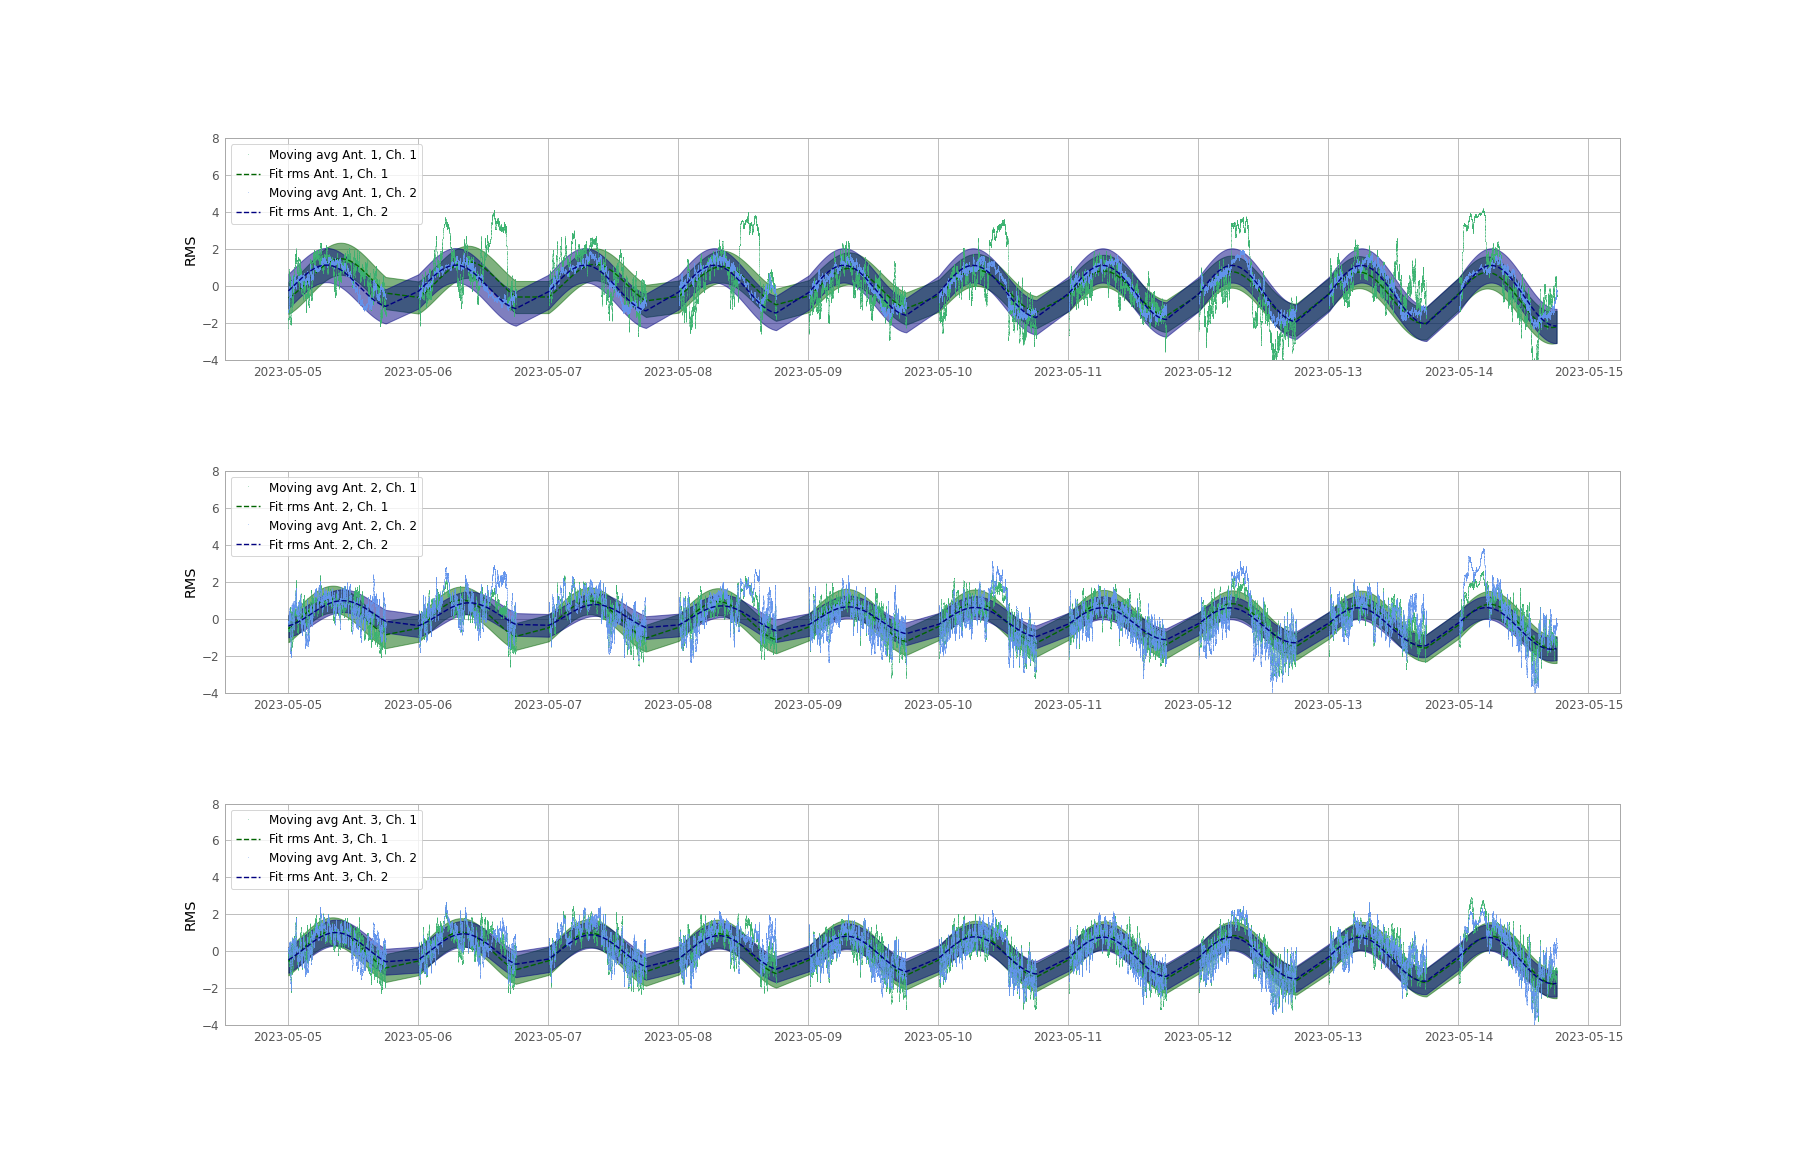
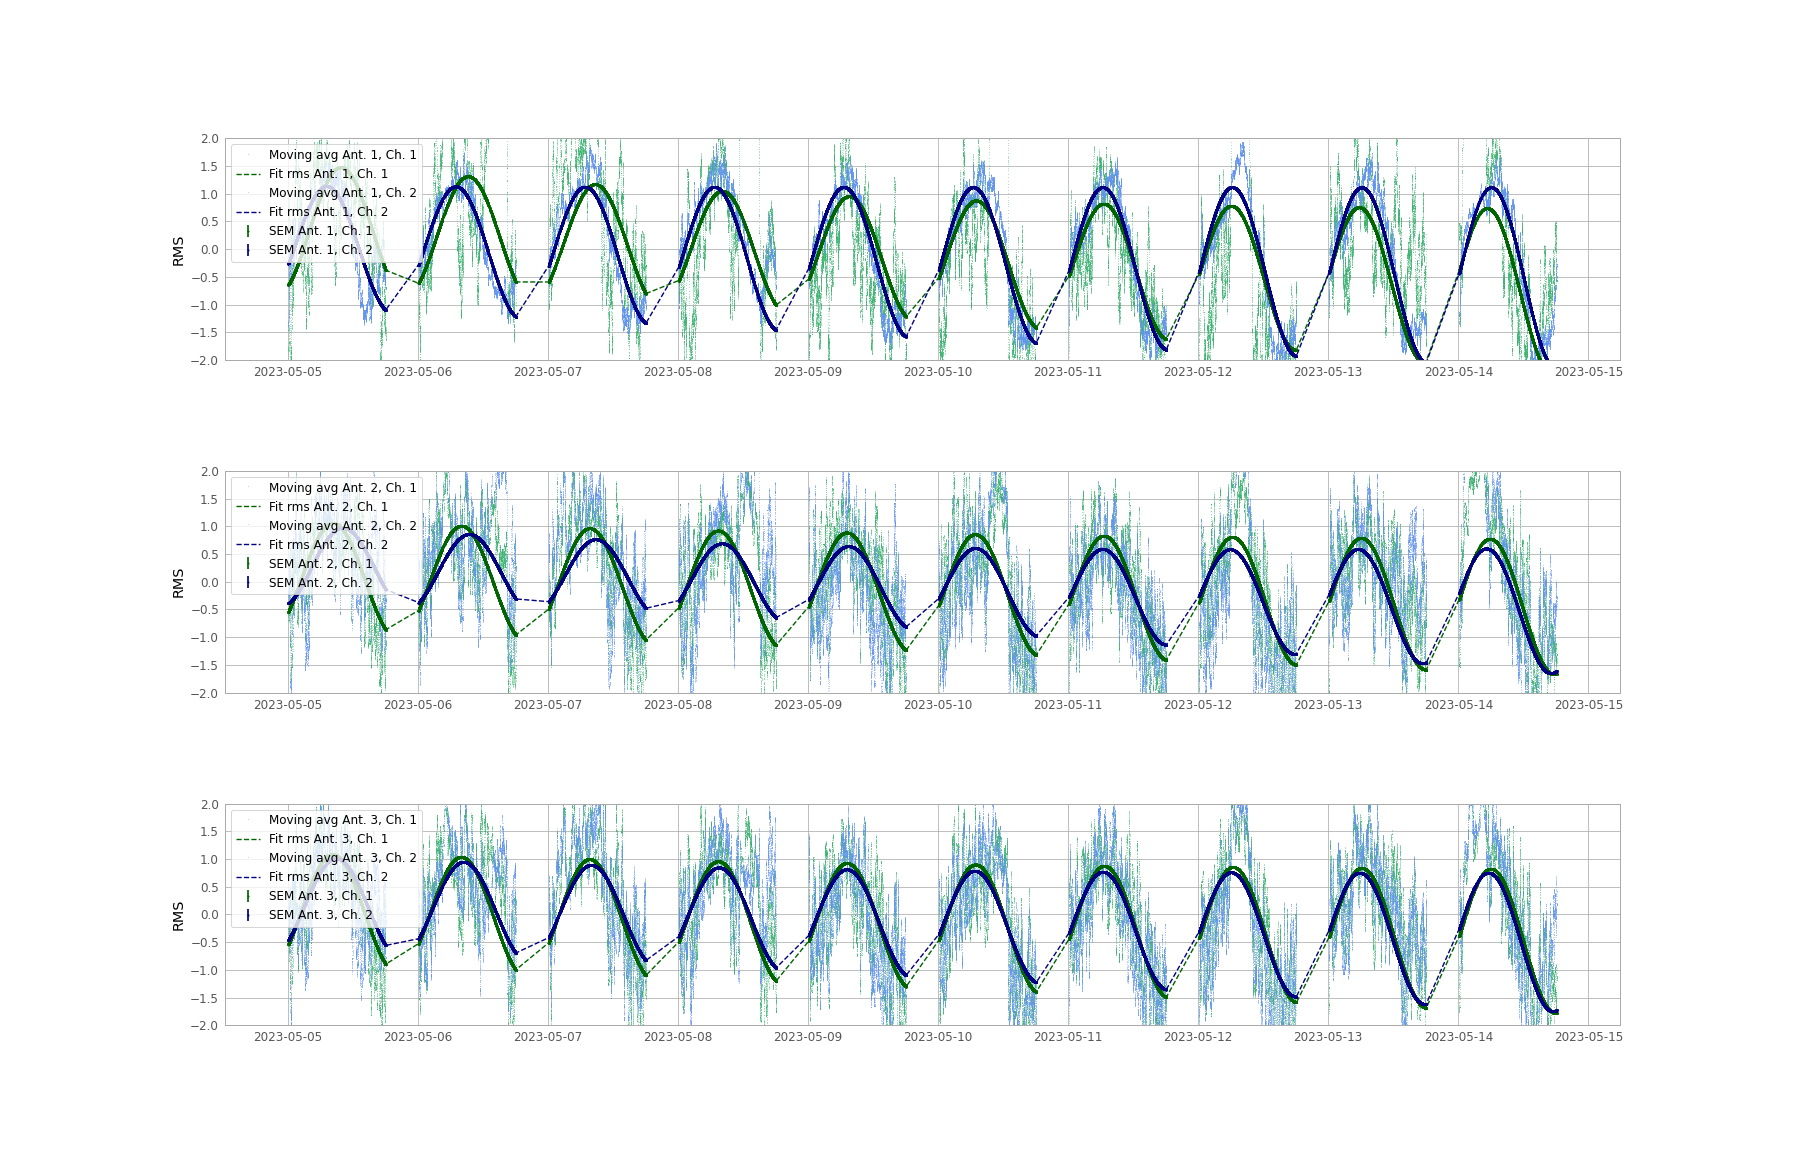
update python scripts

diff --git a/fit/frequency.py b/fit/frequency.py
@@ -1,0 +1,152 @@
+from scipy.optimize import curve_fit
+from scipy.stats import binned_statistic
+from scipy.signal import savgol_filter
+from datetime import datetime
+import pandas as pd
+import numpy as np
+import logging
+
+from astropy.visualization import astropy_mpl_style, quantity_support
+import matplotlib.gridspec as gridspec
+import matplotlib.pyplot as plt
+import matplotlib
+matplotlib.rcParams['text.usetex'] = False
+plt.rcParams['figure.dpi'] = 2000
+plt.style.use(astropy_mpl_style)
+quantity_support()
+
+
+class fit_data:
+
+    def __init__(self, filename, stat):
+        self.time, self.rms = [], []
+        self.ant, self.pol = 3, 2  # 3 antennas and 2 polarisations
+        self.window = 150
+        self.stat = stat
+        self.dataframe = pd.DataFrame()  # create dataframe to make easier column operations
+        self.read_npz(filename)  # read compressed numpy files
+        logging.basicConfig(filename='fit.log', level=logging.INFO, format='%(asctime)s - %(message)s', datefmt='%Y-%m-%d %H:%M:%S')
+        self.logger = logging.getLogger('fit')
+        print(f'-> Reading {filename.split("_")[2][:-4]} MHz')
+
+    def read_npz(self, filename):
+        data = np.load(filename, allow_pickle=True)  # allow pickling -> use of packed objects
+        self.time = data['time']
+        self.rms = np.array([data['rms10'], data['rms11'], data['rms20'], data['rms21'], data['rms30'], data['rms31']])
+
+    def process_data(self):
+        self.to_dataframe()
+        self.clean_data()
+        self.get_moving_avg()
+        print('\n------ Fitting data ------')
+
+    def to_dataframe(self):
+        self.dataframe['time'] = self.time
+        for ant_i in range(self.ant):
+            for chan_i in range(self.pol):
+                id_i = f'rms{ant_i+1}{chan_i}'
+                self.dataframe[id_i] = self.rms[2 * ant_i + chan_i]
+
+    def clean_data(self, n=17):  # n to calc a threshold by adding n to the minimum rms.
+        for ant_i in range(self.ant):
+            for chan_i in range(self.pol):
+                id_i = f'rms{ant_i+1}{chan_i}'
+                self.dataframe = self.dataframe[self.dataframe[id_i] <= np.min(self.dataframe[id_i]) + n]  # remove outliers
+
+    def get_moving_avg(self):  # calc moving avg using rolling
+        for ant_i in range(self.ant):
+            for chan_i in range(self.pol):
+                id_i = f'{ant_i+1}{chan_i}'
+                self.dataframe['average' + id_i] = self.dataframe['rms' + id_i].rolling(self.window).mean()
+
+    def set_window_time(self, init_time, final_time):
+        self.init_time, self.final_time = init_time, final_time
+        self.dataframe = self.dataframe.sort_values('time', axis=0, ascending=True)
+        self.dataframe = self.dataframe.loc[self.dataframe['time'] > init_time]
+        self.dataframe = self.dataframe.loc[self.dataframe['time'] < final_time]
+
+    def bin_data(self, time, rms, bins=5000):
+        std, _, _ = binned_statistic(time, rms, statistic='std', bins=bins)
+        n, _, _ = binned_statistic(time, rms, statistic='count', bins=bins)
+        sem = std / np.sqrt(n)
+        bins, bin_edges, _ = binned_statistic(time, rms, statistic=self.stat, bins=bins)
+        bin_centers = (bin_edges[:-1] + bin_edges[1:]) / 2
+        return bins, bin_centers, sem
+
+    def chi_squared(self, y_obs, y_fit, sigma):
+        return np.sum(((y_fit - y_obs) / sigma) ** 2) / (len(y_obs) - 5)
+
+    def fit_sin(self, time, rms):
+        t = np.array([val.timestamp() for val in time])  # converts datetime to a unix timestamp
+
+        a, mean = 0, 0
+        phase, phase2 = 0, 0
+        amp, amp2 = np.std(rms) / np.sqrt(2), 0.001
+        sidereal_freq = 1 / (23 * 60 * 60 + 56 * 60 + 4.092)  # sidereal freq
+        solar_freq = 1 / (24 * 60 * 60)  # solar freq
+
+        def fit_function(t, amp, phase, amp2, phase2, a, mean):
+            return amp * np.sin(2 * np.pi * sidereal_freq * t + phase) + amp2 * np.sin(2 * np.pi * solar_freq * t + phase2) + a * t + mean
+
+        initial_guess = [amp, phase, amp2, phase2, a, mean]
+        param_bounds = ([0, -np.inf, 0, -np.inf, -np.inf, -np.inf], [np.inf, np.inf, np.inf, np.inf, np.inf, np.inf])
+        bins, bin_centers, sem = self.bin_data(t, rms)  # bin before fitting
+
+        valid_bins = ~np.isnan(bins) & ~np.isnan(bin_centers)  # filter out bins with NaN or Inf values
+        fit_bin_centers, fit_bins = bin_centers[valid_bins], bins[valid_bins]
+
+        popt, pcov = curve_fit(fit_function, fit_bin_centers, fit_bins, p0=initial_guess, bounds=param_bounds)
+        fit = fit_function(bin_centers, *popt)
+        amp, phase, amp2, phase2, a, mean = popt
+        print(a)
+
+        return fit, bin_centers, sem
+
+    def plot_fit(self, ax, time, data_fit, **kwargs):
+        ax.plot(time, data_fit, **kwargs)
+
+    def plot_pol(self, ax, freq, chan_i, color_map):
+        for ant_i in range(self.ant):
+            id_i = f'{ant_i+1}{chan_i}'
+            print(f'\n- Ant. {ant_i+1}, Pol. {chan_i+1}')
+
+            average_rms = self.dataframe['average' + id_i] - np.mean(self.dataframe['average' + id_i])  # center data
+            time = self.dataframe['time']
+
+            start_time, end_time = self.init_time, self.final_time
+            mask = (time >= start_time) & (time <= end_time)
+            time, average_rms = time[mask], average_rms[mask]
+
+            data_fit, bin_centers, sem = self.fit_sin(time, average_rms)
+
+            bin_centers_dates = [datetime.fromtimestamp(tc) for tc in bin_centers]
+            self.plot_fit(ax, bin_centers_dates, data_fit, lw=1.4, ls='--', label=f'Ant. {ant_i+1}, Ch. {chan_i+1}', color=color_map[ant_i])
+            #ax.plot_date(time, average_rms, fmt=',', alpha=0.2, color=color_map[ant_i], label=f'Moving avg Ant. {ant_i+1}, Ch. {chan_i+1}')
+            #ax.errorbar(bin_centers_dates, data_fit, yerr=sem, fmt='o', ecolor=color_map[ant_i], markeredgecolor=color_map[ant_i], markerfacecolor=color_map[ant_i])
+
+    def plot_rms(self, fig, freq, color_map):
+        spec = gridspec.GridSpec(ncols=1, nrows=2)
+        freq = freq.split('_')[2][:-4]
+        for chan_i in range(self.pol):
+            ax = fig.add_subplot(spec[chan_i])
+            self.plot_pol(ax, freq, chan_i, color_map)
+            ax.set_ylabel('RMS')
+            ax.set_ylim(-2,2)
+            plt.legend(loc='upper left')
+            plt.setp(ax.get_xticklabels(), visible=True)
+
+        plt.suptitle(f'Using {self.stat} for Freq {freq}', fontsize=18, y=0.95)
+        plt.savefig(f'../plots/freq_{self.stat}_binned.png')
+        plt.close()
+
+filenames = ['GalOscillation_Deconvolved_140-190.npz']
+startTime = '2023-04-05'
+endTime = '2023-04-30'
+
+fig = plt.figure(figsize=[25, 16])
+color_map = ['red', 'blue', 'green']
+for file in filenames:
+    fit = fit_data(file, 'mean')
+    fit.process_data()
+    fit.set_window_time(startTime, endTime)
+    fit.plot_rms(fig, file, color_map)

diff --git a/fit/fit_binned.py b/fit/fit_binned.py
@@ -1,10 +1,12 @@
 
 from scipy.optimize import curve_fit
 from scipy.stats import binned_statistic
+from scipy.signal import savgol_filter
 from datetime import datetime
 import pandas as pd
 import numpy as np
 import logging
+import argparse
 
 from astropy.visualization import astropy_mpl_style, quantity_support
 import matplotlib.gridspec as gridspec
@@ -25,7 +27,7 @@ class fit_data:
         self.stat = stat
         self.dataframe = pd.DataFrame() #* create dataframe to make easier column operations
         self.read_npz(filename) #* read compressed numpy files
-        logging.basicConfig( filename='fit.log', level=logging.INFO, format='%(asctime)s - %(message)s', datefmt='%Y-%m-%d %H:%M:%S')
+        logging.basicConfig(filename='fit.log', level=logging.INFO, format='%(asctime)s - %(message)s', datefmt='%Y-%m-%d %H:%M:%S')
         self.logger = logging.getLogger('fit')
         print(f'-> Reading {filename.split("_")[2][:-4]} MHz')
 
@@ -70,13 +72,8 @@ class fit_data:
         std, _, _ = binned_statistic(time, rms, statistic='std', bins=bins)
         n, _, _ = binned_statistic(time, rms, statistic='count', bins=bins)
         sem = std/np.sqrt(n)
-
         bins, bin_edges, _ = binned_statistic(time, rms, statistic=self.stat, bins=bins)
         bin_centers = (bin_edges[:-1] + bin_edges[1:])/2
-
-        valid_bins = ~np.isnan(bins) & ~np.isnan(bin_centers) #? filter out bins with NaN or Inf values
-        bin_centers, bins, sem = bin_centers[valid_bins], bins[valid_bins], sem[valid_bins]
-
         return bins, bin_centers, sem
 
     def chi_squared(self, y_obs, y_fit, sigma):
@@ -98,12 +95,17 @@ class fit_data:
         initial_guess = [amp, phase, amp2, phase2, a, mean]
         param_bounds = ([0, -np.inf, 0, -np.inf, -np.inf, -np.inf],[np.inf, np.inf, np.inf, np.inf, np.inf, np.inf])
         bins, bin_centers, sem = self.bin_data(t, rms) #* bin before fitting
-        popt, pcov = curve_fit(fit_function, bin_centers, bins, p0=initial_guess, bounds=param_bounds)
 
+        valid_bins = ~np.isnan(bins) & ~np.isnan(bin_centers) #? filter out bins with NaN or Inf values
+        fit_bin_centers, fit_bins = bin_centers[valid_bins], bins[valid_bins]
+
+        popt, pcov = curve_fit(fit_function, fit_bin_centers, fit_bins, p0=initial_guess, bounds=param_bounds)
         perr = np.sqrt(np.diag(pcov)) #* std of the fit params
         amp, phase, amp2, phase2, a, mean = popt #* fit values
         amp_std, phase_std, amp2_std, phase2_std, a_std, mean_std = perr #* std of fit values
-        fit = fit_function(t, *popt)
+        fit = fit_function(bin_centers, *popt)
+        self.logger.info({'stat':self.stat, 'A1':amp, 'phi1':phase, 'A2':amp2, 'phi2':phase2, 'a':a, 'mean':mean})
+        self.logger.info({'stat':self.stat, 'A1_std':amp_std, 'phi1_std':phase_std, 'A2_std':amp2_std, 'phi2_std':phase2_std, 'a_std':a_std, 'mean_std':mean_std})
 
         print(f'Chi-squared: {self.chi_squared(rms, fit_function(t, *popt), np.std(fit)):.3f}')
         print(f'SEM: {np.std(fit)/len(fit):.3f}')
@@ -115,7 +117,8 @@ class fit_data:
         print(f'phi_2: {phase2:.3f} ± {phase2_std:.3f}')
         print(f'a: {a:.3f} ± {a_std:.3f}')
         print(f'mean: {mean:.3f} ± {mean_std:.3f}')
-        return fit, bins, bin_centers, sem #* final fit
+
+        return fit, bin_centers, sem #* final fit
 
 
     def plot_fit(self, ax, time, data_fit, **kwargs):
@@ -133,17 +136,18 @@ class fit_data:
         start_time, end_time = self.init_time, self.final_time
         mask = (time >= start_time) & (time <= end_time)
         time, rms_cent, average_rms = time[mask], rms_cent[mask], average_rms[mask]
-        data_fit, bins, bin_centers, sem = self.fit_sin(time, average_rms)
 
-        #ax.plot_date(time, rms_cent, fmt=',', c=color[chan_i], alpha=0.5, label=f'Ant. {ant_i+1}, Pol. {chan_i}')
+        data_fit, bin_centers, sem = self.fit_sin(time, average_rms)
+
+        ax.plot_date(time, rms_cent, fmt=',', c=color[chan_i], alpha=0.5, label=f'Ant. {ant_i+1}, Pol. {chan_i}')
         ax.plot_date(time, average_rms, fmt=',', c=color2[chan_i], label=f'Moving avg Ant. {ant_i+1}, Ch. {chan_i+1}')
 
-        std = np.std(data_fit)
-        self.plot_fit(ax, time, data_fit, lw=1.4, fmt='--', label=f'Fit rms Ant. {ant_i+1}, Ch. {chan_i+1}', c=color3[chan_i])
-        ax.fill_between(time, data_fit-std, data_fit+std, alpha=0.5, color=color3[chan_i])
+        bin_centers_dates = [datetime.fromtimestamp(tc) for tc in bin_centers]
+        self.plot_fit(ax, bin_centers_dates, data_fit, lw=1.4, fmt='--', label=f'Fit rms Ant. {ant_i+1}, Ch. {chan_i+1}', c=color3[chan_i])
+        ax.errorbar(bin_centers_dates, data_fit, yerr=sem, fmt ='o', label=f'SEM Ant. {ant_i+1}, Ch. {chan_i+1}', ecolor=color3[chan_i], markeredgecolor=color3[chan_i], markerfacecolor=color3[chan_i])
 
-        mse = np.mean((average_rms-data_fit)**2)
-        print(f'mse: {mse:.3f}')
+        #mse = np.mean((average_rms-data_fit)**2)
+        #print(f'mse: {mse:.3f}')
 
 
     def plot_rms(self):
@@ -155,25 +159,26 @@ class fit_data:
             ax = fig.add_subplot(spec[ant_i])
             for chan_i in range(self.pol):
                 self.plot_pol(ax, ant_i, chan_i)
-            #self.plot_pol(ax, ant_i, 0)
+
             ax.set_ylabel('RMS')
             ax.set_ylim(-4,8)
-            #ax.set_xlim(datetime(2023, 5, 5), datetime(2023, 5, 6))
             plt.legend(loc='upper left')
             plt.setp(ax.get_xticklabels(), visible=True)
             plt.suptitle(f'Using {self.stat}', fontsize=18, y=0.95)
 
-        plt.savefig(f'fit_{self.stat}_binned.png')
+        plt.savefig(f'../plots/fit_{self.stat}_binned.png')
         plt.close()
 
 
-filename = 'GalOscillation_Deconvolved_140-190.npz'
-startTime = '2023-05-05'
-endTime = '2023-05-15'
-for stat in ['mean', 'median']:
-    fit = fit_data(filename, stat)
-    fit.process_data()
-    startTime = '2023-05-05'
-    endTime = '2023-05-15'
-    fit.set_window_time(startTime, endTime)
-    fit.plot_rms()
+
+parser = argparse.ArgumentParser()
+parser.add_argument('--file', type=str, help='.npz file name', required=False, default='GalOscillation_Deconvolved_140-190.npz')
+parser.add_argument('--stat', type=str, help='mean or median', required=False, default='mean')
+parser.add_argument('--init_time', type=str, help='initial time -> d/m/y', required=False, default='05/05/2023')
+parser.add_argument('--final_time', type=str, help='final time -> d/m/y', required=False, default='15/05/2023')
+args = parser.parse_args()
+
+fit = fit_data(args.file, args.stat)
+fit.process_data()
+fit.set_window_time(args.init_time, args.final_time)
+fit.plot_rms()

diff --git a/fit/fit_data.py b/fit/fit_data.py
@@ -2,6 +2,7 @@ from scipy.optimize import curve_fit
 from datetime import datetime
 import pandas as pd
 import numpy as np
+import argparse
 
 from astropy.visualization import astropy_mpl_style, quantity_support
 import matplotlib.gridspec as gridspec
@@ -118,8 +119,8 @@ class fit_data:
         data_fit = self.fit_sin(time, average_rms)
 
         self.plot_fit(ax, time, data_fit, lw=1.4, fmt='--', label=f'Fit rms Ant. {ant_i+1}, Ch. {chan_i+1}', c=color3[chan_i])
-        std = np.std(data_fit)
-        ax.fill_between(time, data_fit-std, data_fit+std, alpha=0.5, color=color3[chan_i])
+        sem = np.std(data_fit)/len(data_fit)
+        ax.errorbar(time, data_fit, yerr=sem, fmt ='o', markersize=1, label=f'SEM Ant. {ant_i+1}, Ch. {chan_i+1}', ecolor=color3[chan_i], markeredgecolor=color3[chan_i], markerfacecolor=color3[chan_i])
 
         mse = np.mean((average_rms - data_fit) ** 2)
         print(f'mse: {round(mse,3)}')
@@ -135,20 +136,21 @@ class fit_data:
             for chan_i in range(self.pol):
                 self.plot_pol(ax, ant_i, chan_i)
             ax.set_ylabel('RMS')
-            ax.set_ylim(-4,8)
+            ax.set_ylim(-2,2)
             plt.legend(loc='upper left')
             plt.setp(ax.get_xticklabels(), visible=True)
 
-        plt.savefig('fit_aging.png')
+        plt.savefig('../plots/fit_aging.png')
         plt.close()
 
 
-filename = 'GalOscillation_Deconvolved_140-190.npz'
-startTime = '2023-05-05'
-endTime = '2023-05-15'
-fit = fit_data(filename)
+parser = argparse.ArgumentParser()
+parser.add_argument('--file', type=str, help='.npz file name', required=False, default='GalOscillation_Deconvolved_140-190.npz')
+parser.add_argument('--init_time', type=str, help='initial time -> y-m-d', required=False, default='2023-05-05')
+parser.add_argument('--final_time', type=str, help='final time -> y-m-d', required=False, default='2023-05-15')
+args = parser.parse_args()
+
+fit = fit_data(args.file)
 fit.process_data()
-startTime = '2023-05-05'
-endTime = '2023-05-15'
-fit.set_window_time(startTime, endTime)
+fit.set_window_time(args.init_time, args.final_time)
 fit.plot_rms()
